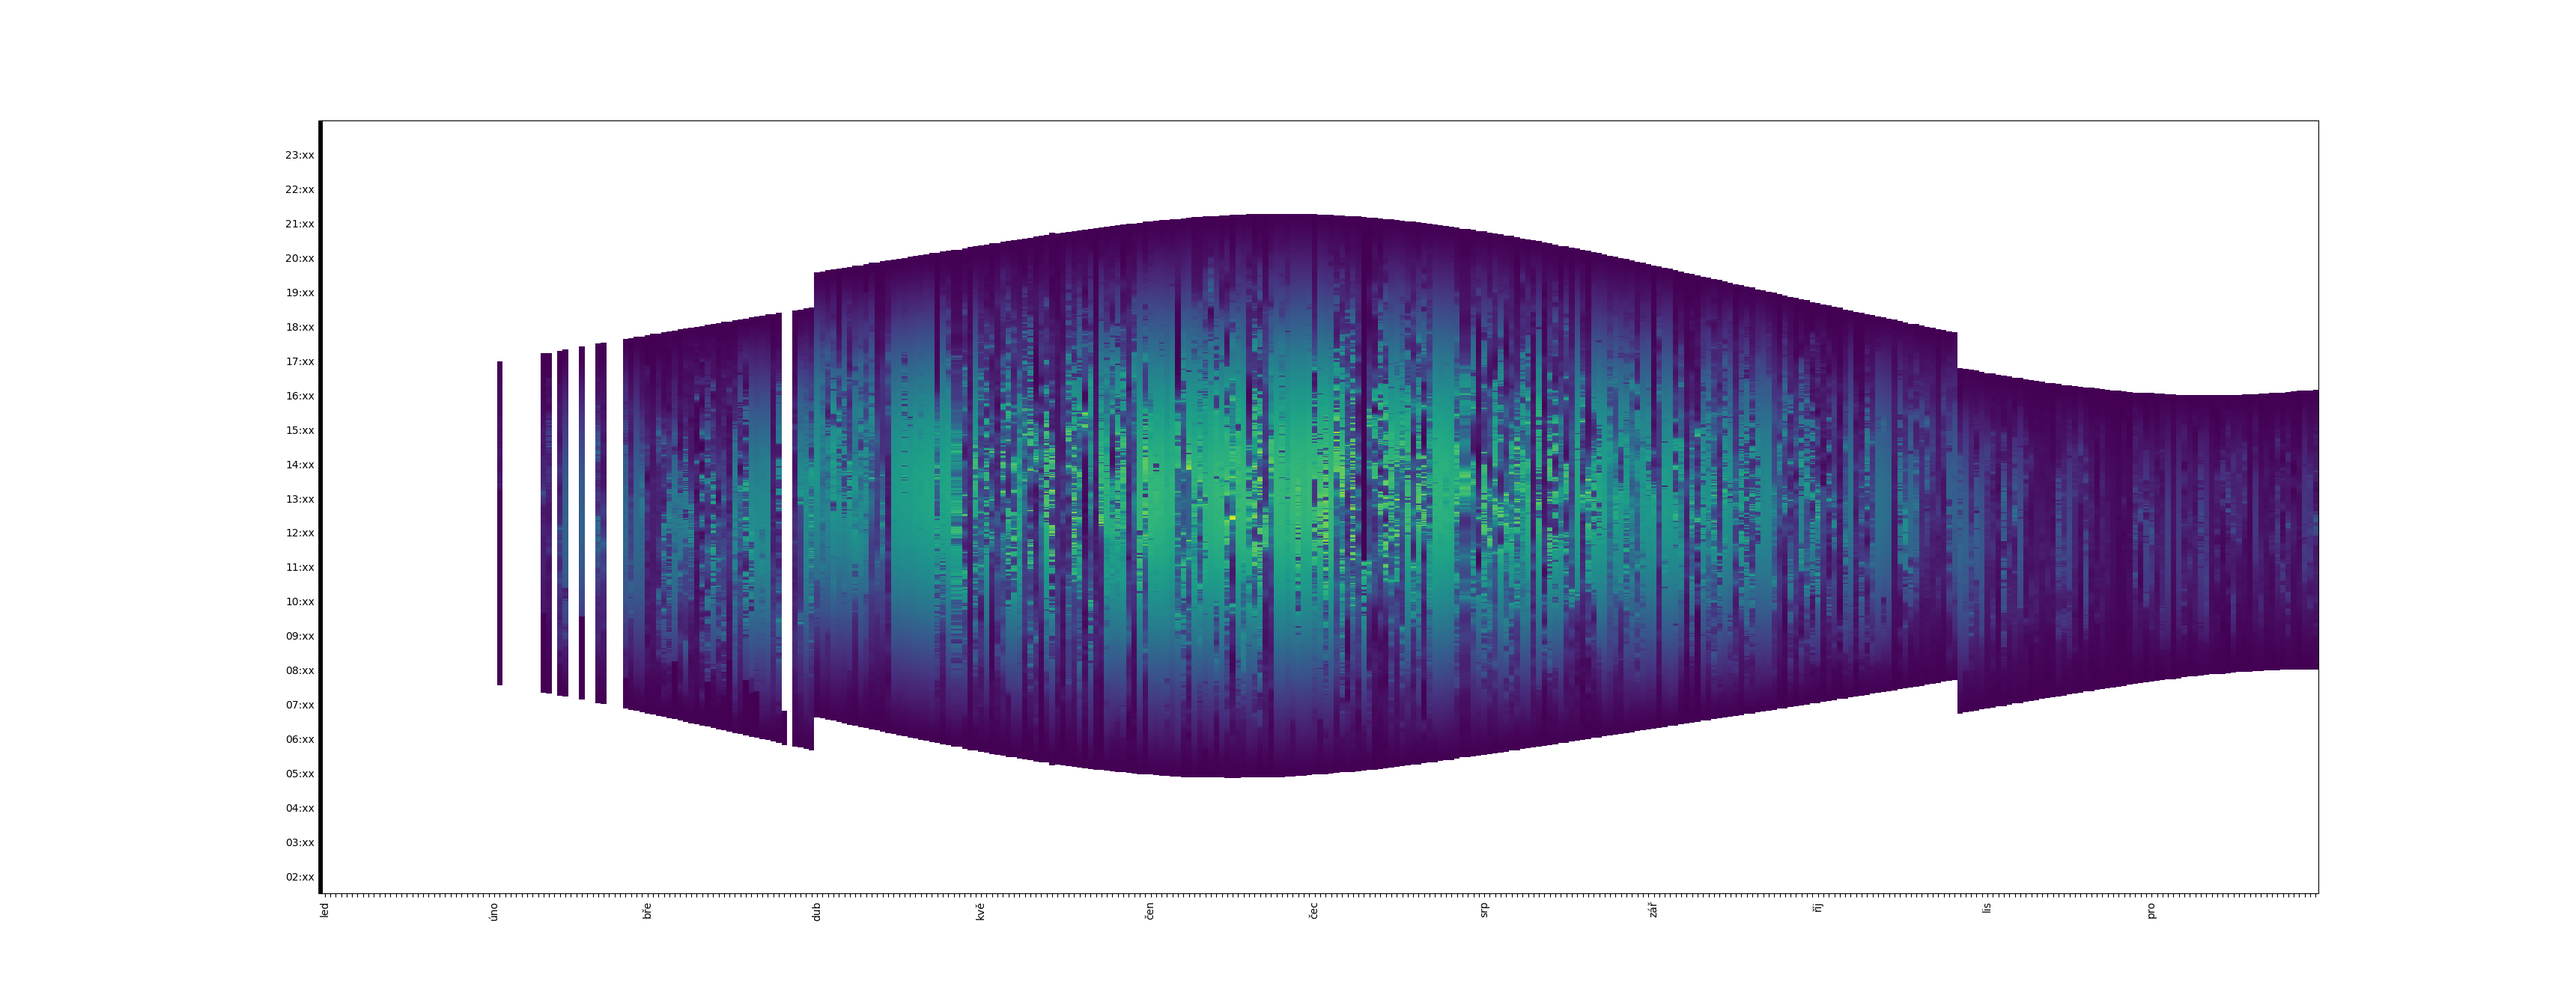
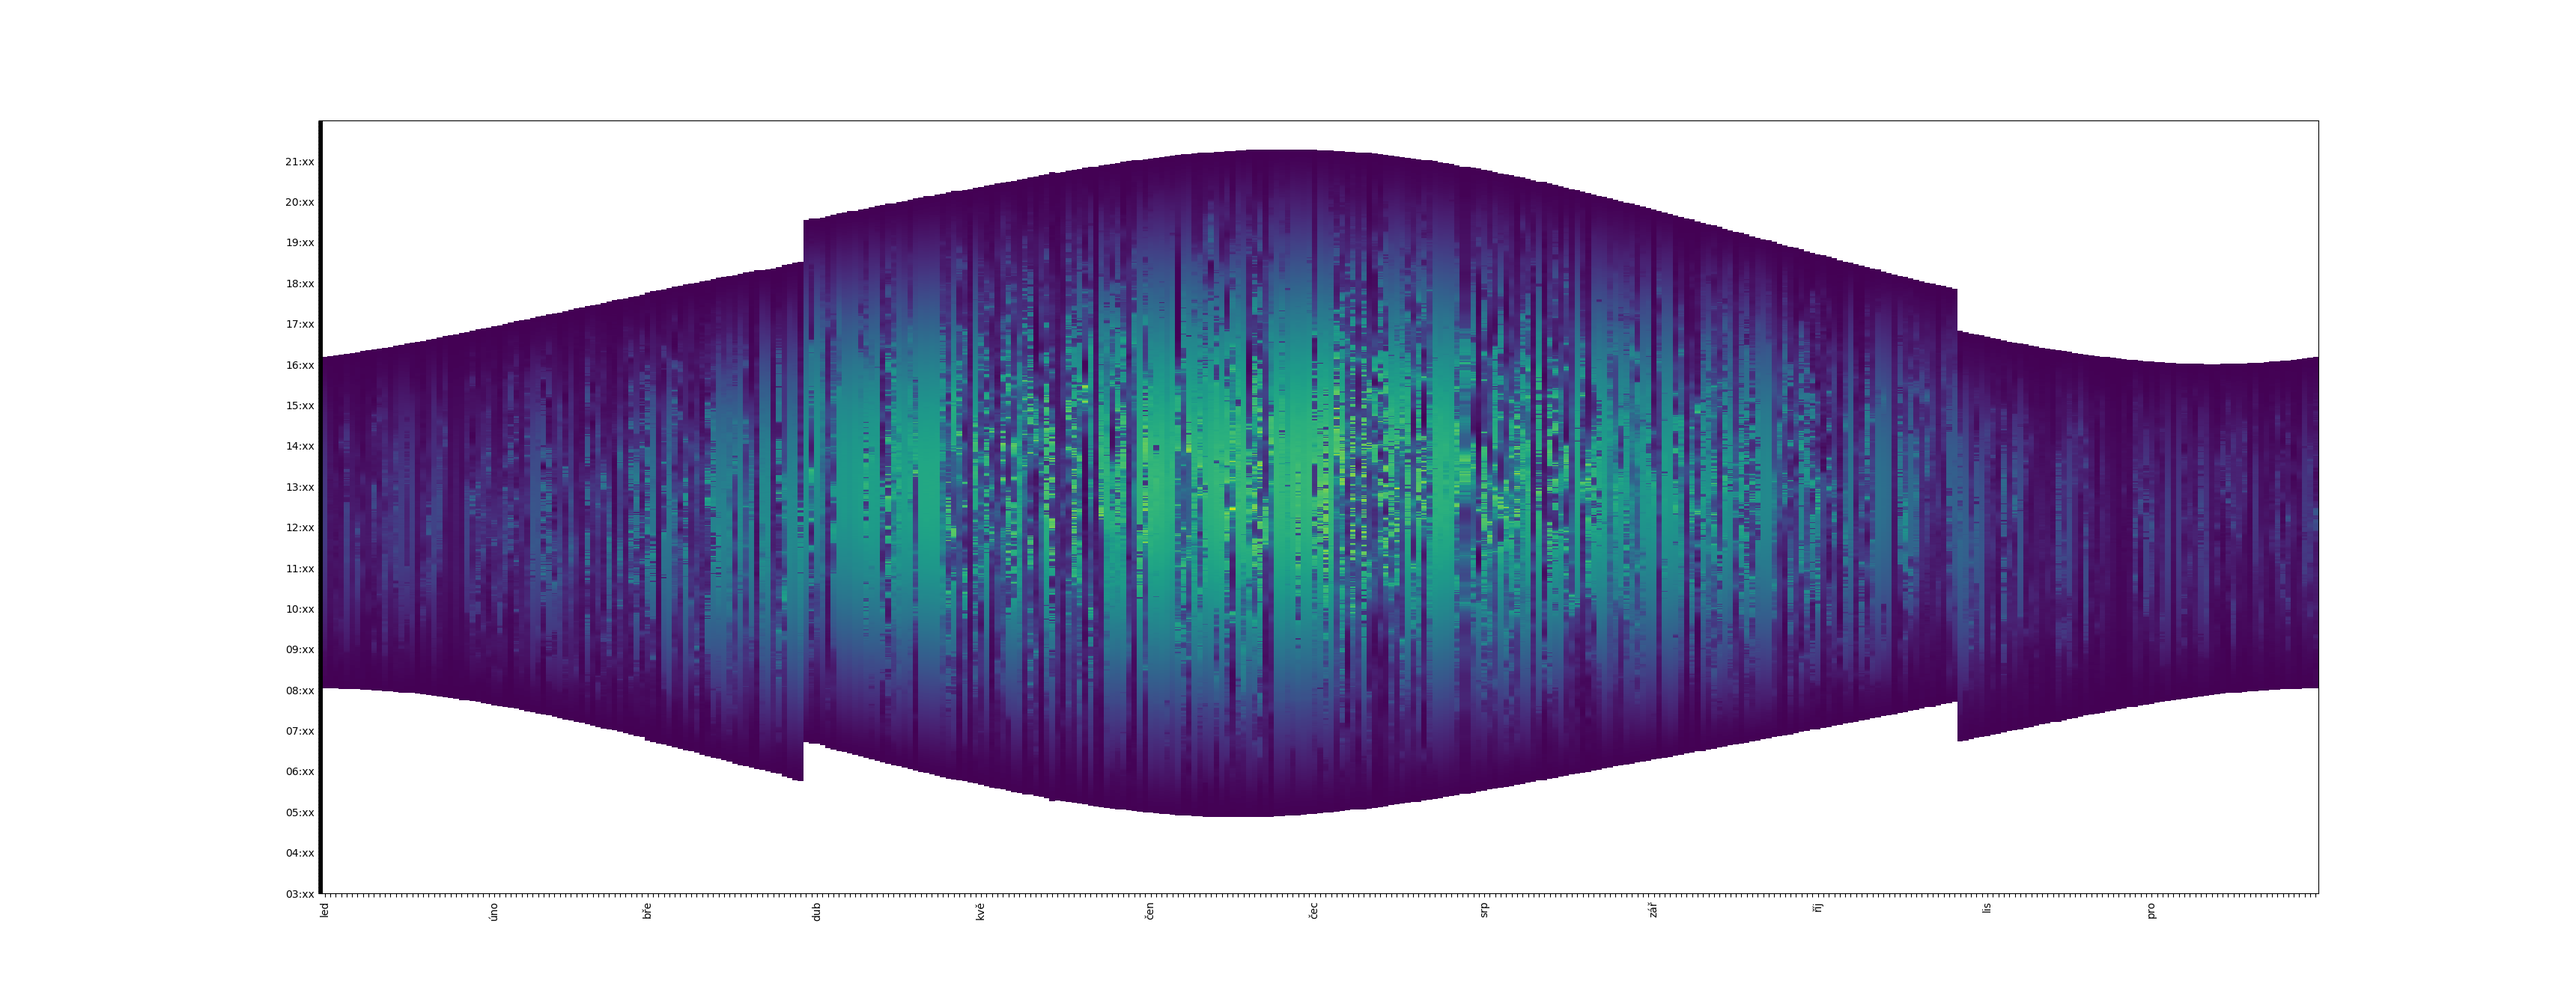
draw median_19_exterier_cvs, new/correct

Changed region(s): [[0.1244, 0.1528, 0.902, 0.8249], [0.8087, 0.4888, 0.8398, 0.5194]]

diff --git a/median_19_exterier_cvs.py b/median_19_exterier_cvs.py
@@ -1,8 +1,28 @@
 #!/usr/bin/env python3
 
 import pandas
+from datetime import datetime
 
-df = pandas.read_csv('median_19_exterier_cvs.csv', sep=";", index_col=['day', 'hour'], parse_dates=['day', 'hour'], dayfirst=True, decimal=",", usecols=['day', 'hour', 'b'])
+df = pandas.read_csv('median_19_exterier_cvs.csv', sep=";", decimal=",", usecols=['day', 'hour', 'b'])
+
+print(list(df.columns))
+print(df.columns)
+print(df.index)
+print(df.head())
+print(df.size)
+
+
+df['day'] = pandas.to_datetime(df['day'], format='%Y-%b-%d')
+
+def normalizeYear(d):
+  if d.year == 2020:
+    return d.replace(year=2019)
+  else:
+    return d
+
+df['day'] = df['day'].apply(normalizeYear)
+
+df['hour'] = pandas.to_datetime(df['hour'], format='%H:%M:%S')
 
 print(list(df.columns))
 print(df.columns)
